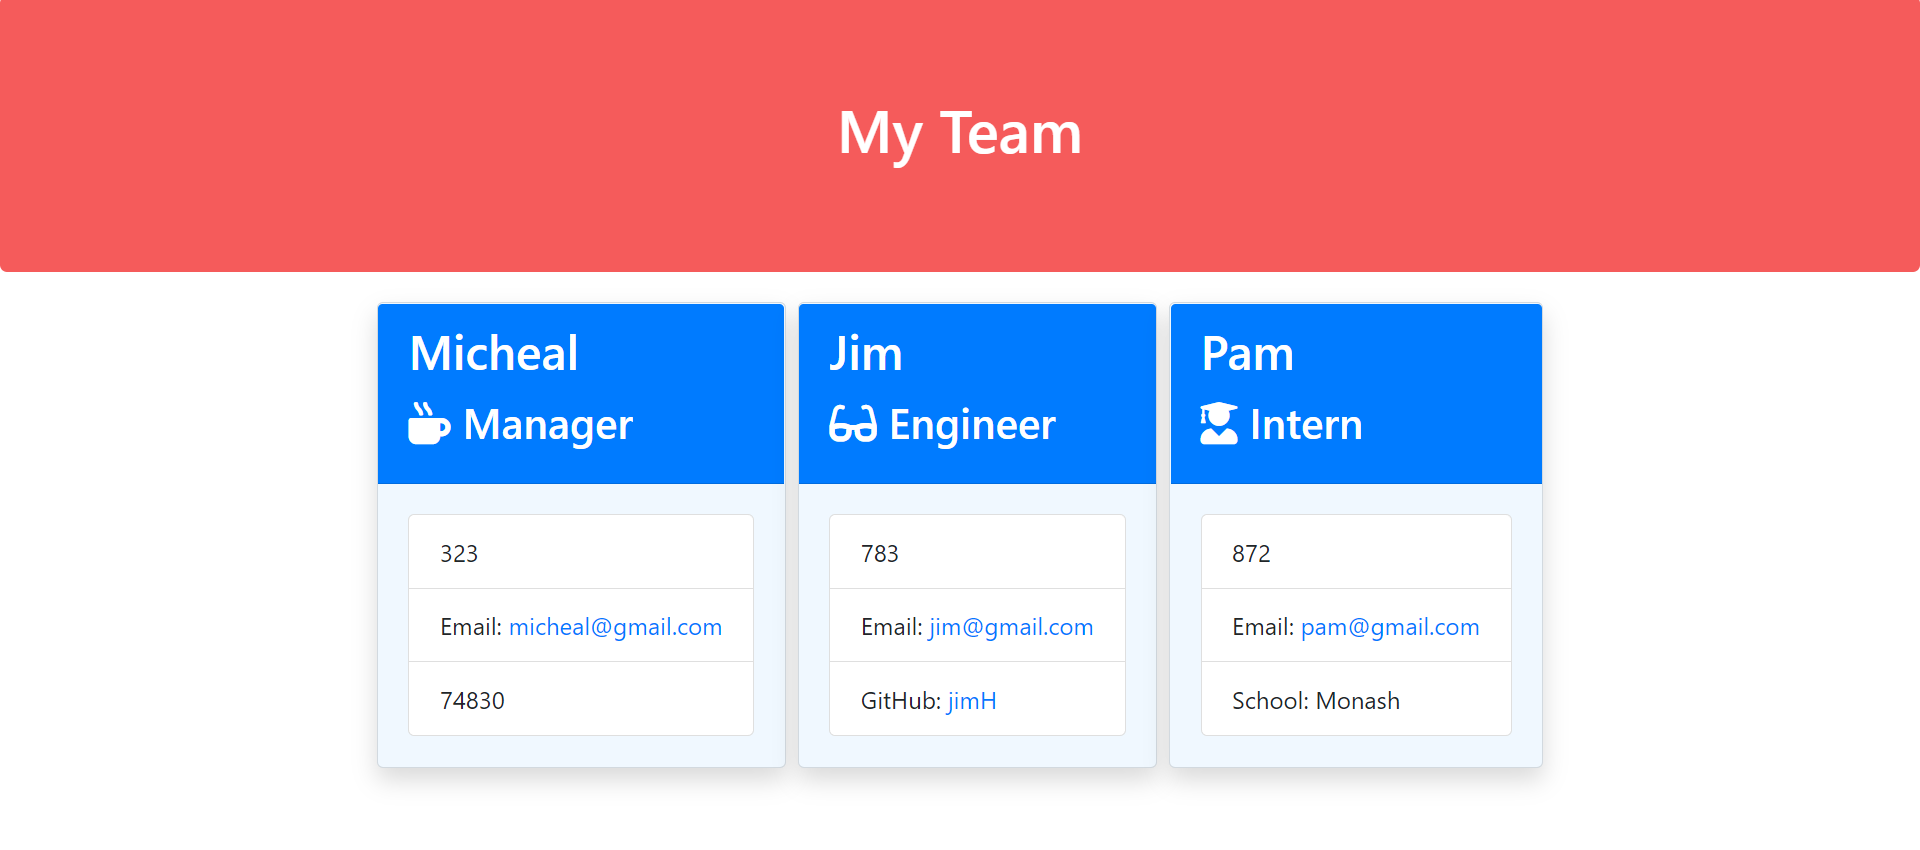
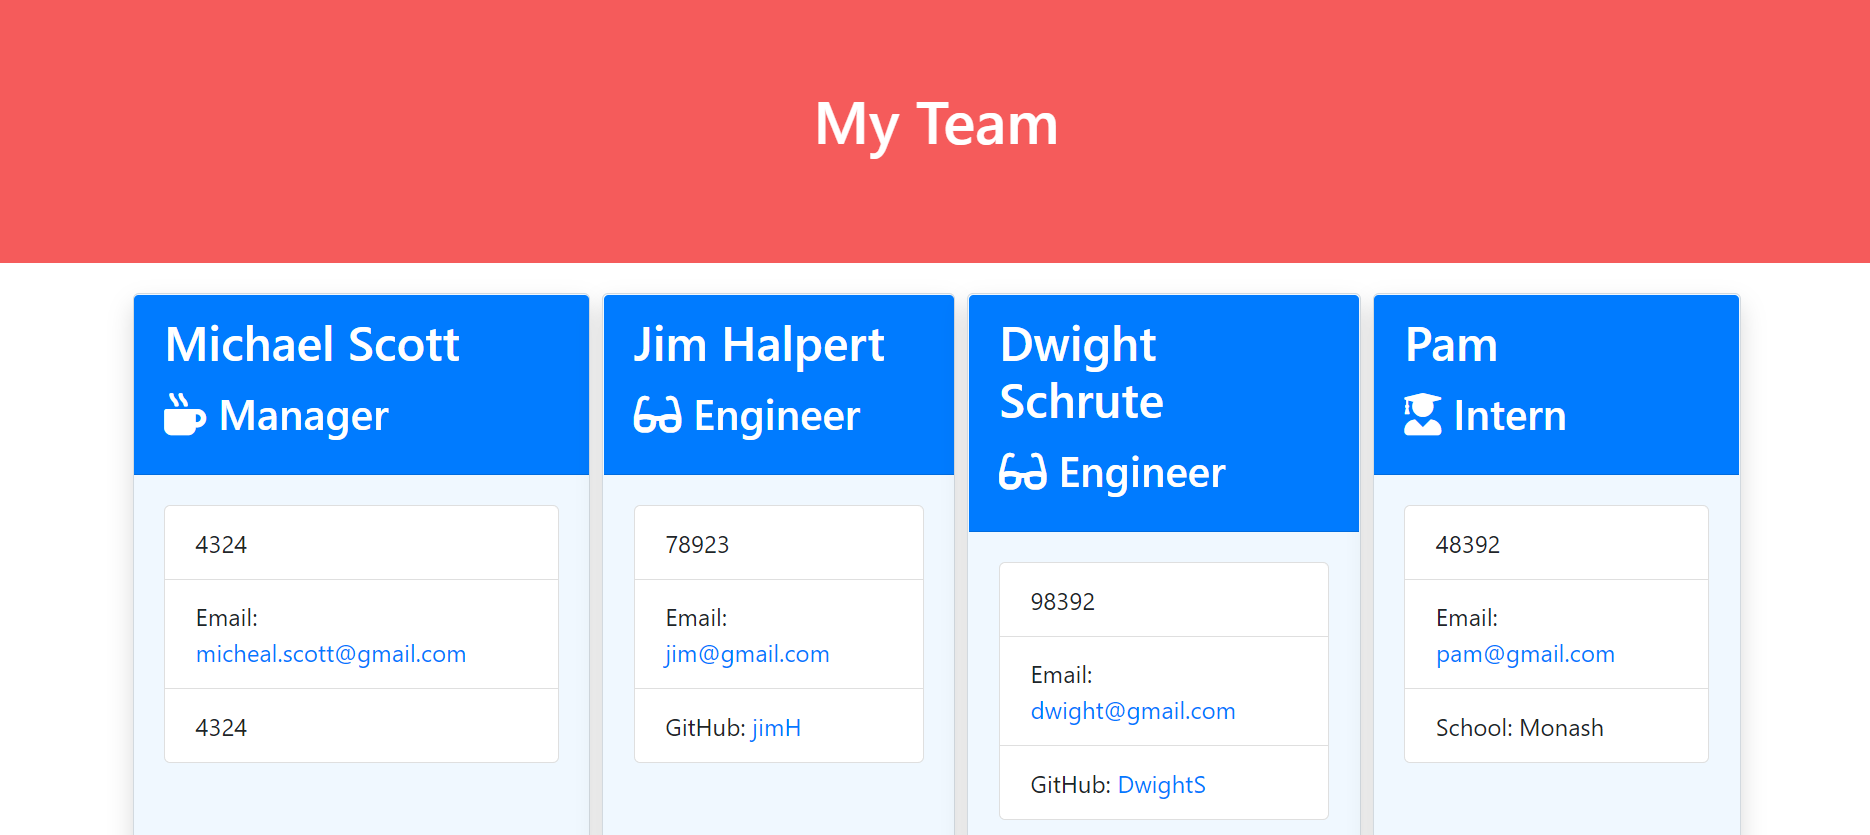
added deployed code link to readme

diff --git a/dist/index.html b/dist/index.html
@@ -31,34 +31,34 @@
       <div class="team-area col-12 d-flex justify-content-center">
         <div class="card employee-card">
           <div class="card-header">
-            <h2 class="card-title">Micheal</h2>
+            <h2 class="card-title">Michael Scott</h2>
             <h3 class="card-title">
               <i class="fas fa-mug-hot mr-2"></i>Manager
             </h3>
           </div>
           <div class="card-body">
             <ul class="list-group">
-              <li class="list-group-item">323</li>
+              <li class="list-group-item">4324</li>
               <li class="list-group-item">
                 Email:
-                <a href="micheal@gmail.com">
-                micheal@gmail.com
+                <a href="micheal.scott@gmail.com">
+                micheal.scott@gmail.com
                 </a>
               </li>
-              <li class="list-group-item">74830</li>
+              <li class="list-group-item">4324</li>
             </ul>
           </div>
         </div>
       <div class="card employee-card">
     <div class="card-header">
-      <h2 class="card-title">Jim</h2>
+      <h2 class="card-title">Jim Halpert</h2>
       <h3 class="card-title">
         <i class="fas fa-glasses mr-2"></i>Engineer
       </h3>
     </div>
     <div class="card-body">
       <ul class="list-group">
-        <li class="list-group-item">783</li>
+        <li class="list-group-item">78923</li>
         <li class="list-group-item">
           Email:
           <a href="jim@gmail.com">jim@gmail.com</a>
@@ -74,6 +74,31 @@
         </li>
       </ul>
     </div>
+  </div>  <div class="card employee-card">
+    <div class="card-header">
+      <h2 class="card-title">Dwight Schrute</h2>
+      <h3 class="card-title">
+        <i class="fas fa-glasses mr-2"></i>Engineer
+      </h3>
+    </div>
+    <div class="card-body">
+      <ul class="list-group">
+        <li class="list-group-item">98392</li>
+        <li class="list-group-item">
+          Email:
+          <a href="dwight@gmail.com">dwight@gmail.com</a>
+        </li>
+        <li class="list-group-item">
+          GitHub:
+          <a
+            href="DwightS"
+            target="_blank"
+            rel="noopener noreferrer"
+            >DwightS</a
+          >
+        </li>
+      </ul>
+    </div>
   </div><div class="card employee-card">
      <div class="card-header">
        <h2 class="card-title">Pam</h2>
@@ -83,7 +108,7 @@
      </div>
      <div class="card-body">
        <ul class="list-group">
-         <li class="list-group-item">872</li>
+         <li class="list-group-item">48392</li>
          <li class="list-group-item">
            Email: <a href="pam@gmail.com">pam@gmail.com</a>
          </li>

diff --git a/index.js b/index.js
@@ -183,7 +183,7 @@ const writeFile = (data) => {
       return;
     } else {
       console.log(
-        "Your team profile has been successfully created! Please check out the team.html"
+        "Your team profile has been successfully created! Please check out the index.html"
       );
     }
   });
@@ -193,7 +193,9 @@ addManager()
   .then((teamArray) => {
     return generateHTML(teamArray);
   })
- 
+  .then((pageHTML) => {
+    return writeFile(pageHTML);
+  })
   .catch((err) => {
     console.log(err);
   });

diff --git a/README.md b/README.md
@@ -10,6 +10,7 @@ This application was created to generate a team profile based on user input usin
 - [Usage](#Usage)
 - [Tests](#Tests)
 - [Assets](#Assets)
+- [Questions](#Questions)
 
 ## Installation
 
@@ -33,3 +34,9 @@ This application was created to generate a team profile based on user input usin
 
 - The following is the screenshot of the webpage generated
   ![](assets/page-screenshot.png)
+- The followings is the link to the deployed code : https://github.com/SrilalithaN/Team-Profile-Generator
+
+## Questions
+
+- If you have any questions please contact me at my github.
+- My github user-name is [SrilalithaN](https://github.com/SrilalithaN)
